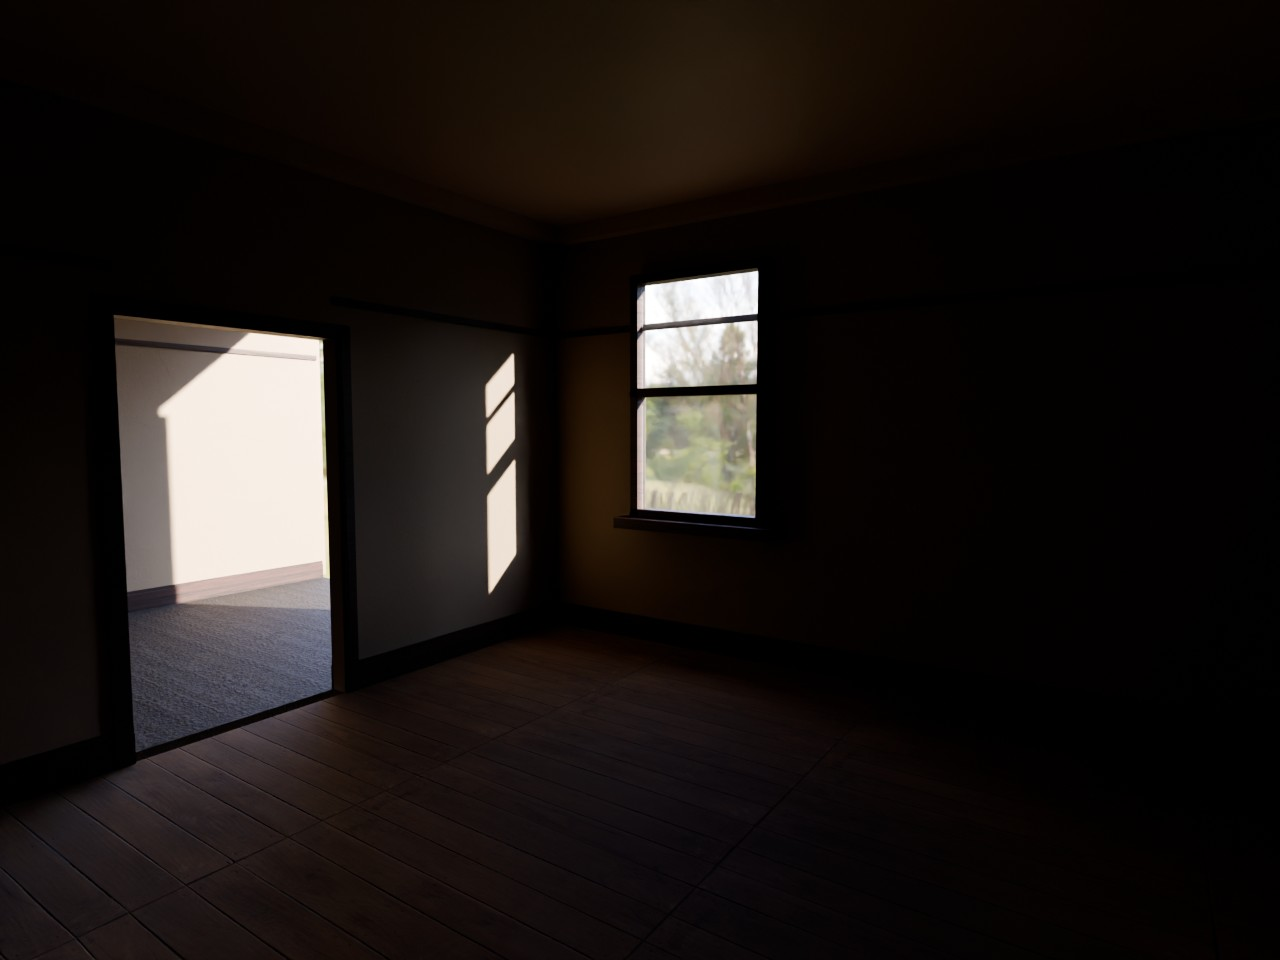
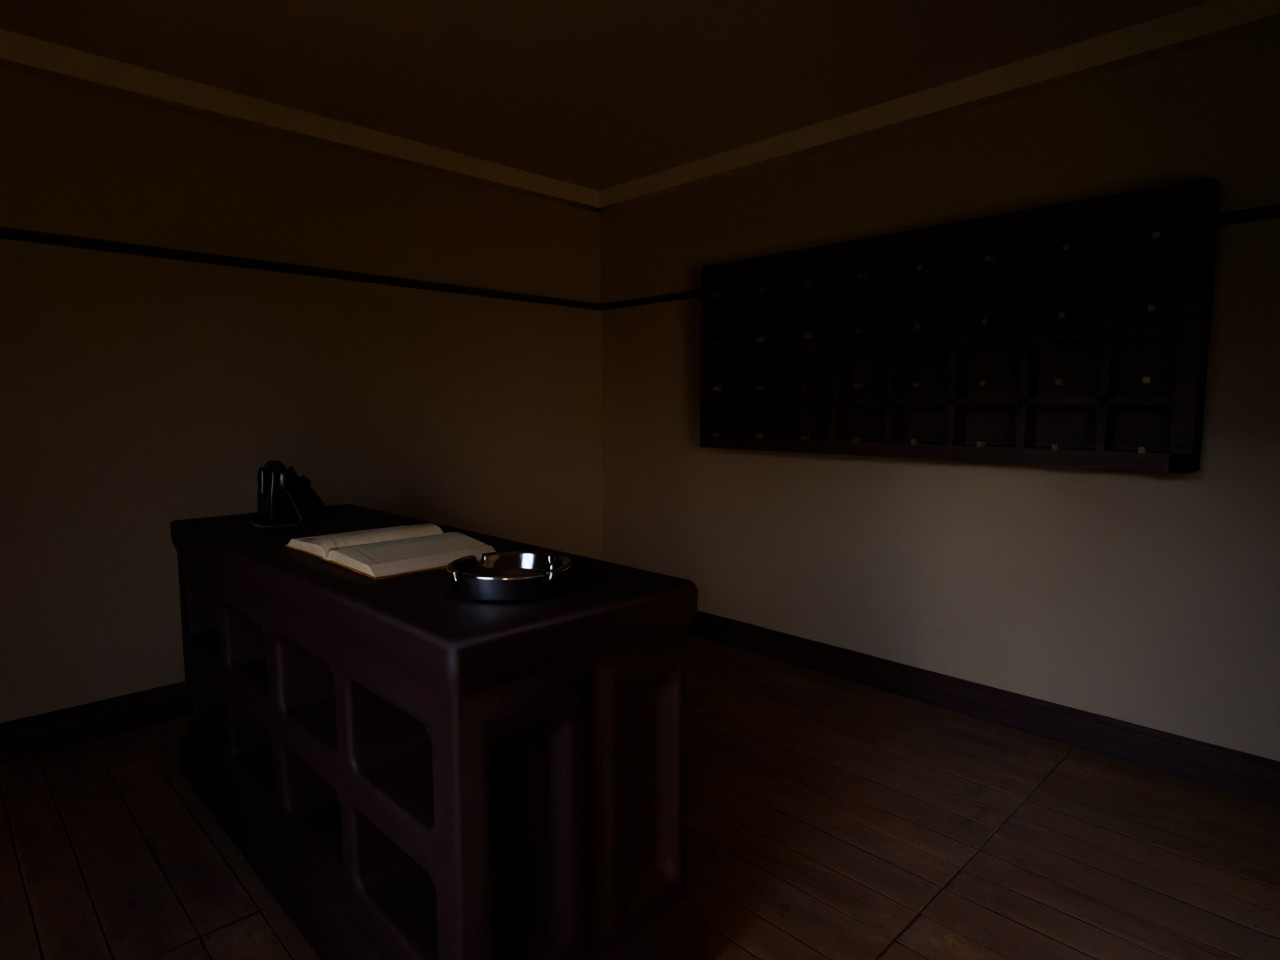
Unit A step 4: furnish reception

diff --git a/tools/blender/build_unit_a.py b/tools/blender/build_unit_a.py
@@ -5,17 +5,18 @@ Run inside Blender through BlenderMCP:
 
     exec(open('tools/blender/build_unit_a.py').read())
 
-This pass builds the reception, parlour, central staircase and first-floor hall
-shells. A later pass brings the existing room 1A into this same scene before
-one shared indirect-light bake. It writes `assets/blender/unit-a.blend` and one
-check render per assembled space under `shots/unit-a-*.jpg`.
+This pass builds all five contiguous spaces and furnishes the reception. Room
+1A is imported from its completed shipped glTF; the parlour remains ready for
+its own furniture pass before one shared indirect-light bake. It writes
+`assets/blender/unit-a.blend` and one check render per assembled space under
+`shots/unit-a-*.jpg`.
 
 Axes follow the room 1A pipeline:
 
     three (x, y, z) -> blender (x, -z, y)
 
-The numbers below are the reception extents from `src/world/lodge.ts`; this is
-not a fresh layout. Furniture is deliberately absent until Unit A step 4.
+The numbers below are the extents from `src/world/lodge.ts`; this is not a fresh
+layout. Gameplay-facing furniture holder names remain the runtime object IDs.
 """
 
 from __future__ import annotations
@@ -29,6 +30,12 @@ import mathutils
 ROOT = "/Users/habibi/Documents/CLAUDE/paradisegame"
 MATERIALS = f"{ROOT}/assets/blender/materials.blend"
 ROOM1A_GLB = f"{ROOT}/public/models/room1a.glb"
+RECEPTION_SOURCES = {
+    "desk": f"{ROOT}/assets/sourced/reception-desk.glb",
+    "phone": f"{ROOT}/assets/sourced/reception-phone.glb",
+    "ledger": f"{ROOT}/assets/sourced/reception-ledger.glb",
+    "ashtray": f"{ROOT}/assets/sourced/reception-ashtray.glb",
+}
 OUT_BLEND = f"{ROOT}/assets/blender/unit-a.blend"
 OUT_RECEPTION_SHOT = f"{ROOT}/shots/unit-a-reception.jpg"
 OUT_PARLOUR_SHOT = f"{ROOT}/shots/unit-a-parlour.jpg"
@@ -151,6 +158,15 @@ def brass_material():
     bsdf.inputs["Metallic"].default_value = 0.58
     bsdf.inputs["Roughness"].default_value = 0.50
     material["tile_metres"] = 1.0
+    return material
+
+
+def black_bakelite_material():
+    material = bpy.data.materials.new("unit_a_black_bakelite")
+    material.use_nodes = True
+    bsdf = next(node for node in material.node_tree.nodes if node.type == "BSDF_PRINCIPLED")
+    bsdf.inputs["Base Color"].default_value = (0.012, 0.010, 0.008, 1.0)
+    bsdf.inputs["Roughness"].default_value = 0.28
     return material
 
 
@@ -314,6 +330,168 @@ def build_reception(materials, glass) -> None:
     ):
         ob = cube(f"reception_cornice_{tag}", lo, hi)
         assign(ob, cornice)
+
+
+def _world_bounds(objects):
+    lo = mathutils.Vector((1e9, 1e9, 1e9))
+    hi = mathutils.Vector((-1e9, -1e9, -1e9))
+    for obj in objects:
+        if obj.type != "MESH":
+            continue
+        for corner in obj.bound_box:
+            point = obj.matrix_world @ mathutils.Vector(corner)
+            for axis in range(3):
+                lo[axis] = min(lo[axis], point[axis])
+                hi[axis] = max(hi[axis], point[axis])
+    return lo, hi
+
+
+def _import_reception_asset(
+    slot,
+    target_size,
+    centre,
+    base_z,
+    source_uid,
+    material_override=None,
+    keep_material_prefixes=None,
+):
+    """Import, measure and place one sourced prop without trusting source units."""
+    path = RECEPTION_SOURCES[slot]
+    if not os.path.exists(path):
+        raise FileNotFoundError(f"Reception source is missing: {path}")
+
+    before = set(bpy.data.objects)
+    bpy.ops.import_scene.gltf(filepath=path)
+    imported = [obj for obj in bpy.data.objects if obj not in before]
+
+    if keep_material_prefixes:
+        for obj in list(imported):
+            if obj.type != "MESH":
+                continue
+            names = [mat.name for mat in obj.data.materials if mat]
+            if not any(name.startswith(keep_material_prefixes) for name in names):
+                bpy.data.objects.remove(obj, do_unlink=True)
+        imported = [obj for obj in bpy.data.objects if obj not in before]
+
+    meshes = [obj for obj in imported if obj.type == "MESH"]
+    if not meshes:
+        raise RuntimeError(f"Reception source {slot} contains no retained meshes")
+
+    holder = bpy.data.objects.new(slot, None)
+    bpy.context.scene.collection.objects.link(holder)
+    holder["unit_a_space"] = "reception"
+    holder["source_uid"] = source_uid
+
+    imported_set = set(imported)
+    for obj in imported:
+        if obj.parent not in imported_set:
+            obj.parent = holder
+
+    bpy.context.view_layer.update()
+    lo, hi = _world_bounds(meshes)
+    size = hi - lo
+    holder.scale = tuple(
+        target_size[axis] / size[axis] if size[axis] > 1e-6 else 1.0
+        for axis in range(3)
+    )
+    bpy.context.view_layer.update()
+
+    lo, hi = _world_bounds(meshes)
+    mid = (lo + hi) / 2
+    holder.location = (
+        holder.location.x + centre[0] - mid.x,
+        holder.location.y + centre[1] - mid.y,
+        holder.location.z + base_z - lo.z,
+    )
+    bpy.context.view_layer.update()
+
+    for index, obj in enumerate(meshes):
+        obj.name = f"reception_{slot}_mesh_{index:02d}"
+        obj["unit_a_space"] = "reception"
+        if material_override is not None:
+            obj.data.materials.clear()
+            obj.data.materials.append(material_override)
+            # The panelled counter ships with vertex colour only. Its linked
+            # timber PBR needs a real albedo UV layer before the later bake.
+            _box_uv(obj, float(material_override.get("tile_metres", 1.0)))
+    return holder
+
+
+def build_reception_furniture(materials, bakelite, brass) -> None:
+    """Furnish reception while keeping the hall opening fully walkable."""
+    timber = materials["timber_dark"]
+
+    _import_reception_asset(
+        "desk", (2.36, 0.80, 1.14), (4.50, -2.32), 0.0,
+        "f37a60e917554d8c98931bf6b99cefaf", material_override=timber,
+    )
+    _import_reception_asset(
+        "ledger", (0.70, 0.42, 0.06), (4.34, -2.28), 1.14,
+        "fdeed37ffb9e4cdfa40e44a5f2ca5c53",
+    )
+    _import_reception_asset(
+        "phone", (0.46, 0.34, 0.25), (5.24, -2.28), 1.14,
+        "e5674d675edb42b6986d58fdda153c17",
+        material_override=bakelite,
+        keep_material_prefixes=("Phone", "Cord"),
+    )
+    _import_reception_asset(
+        "ashtray", (0.32, 0.32, 0.07), (3.65, -2.28), 1.14,
+        "8c9deaa3f4b84e01b186eec4c1269b60",
+    )
+
+    # A fitted rack has to meet this rear wall and preserve the runtime's 8x4
+    # pigeonhole layout. Sketchfab had no credible downloadable period match.
+    rack = bpy.data.objects.new("keyRack", None)
+    bpy.context.scene.collection.objects.link(rack)
+    rack["unit_a_space"] = "reception"
+    x0, x1 = 2.60, 5.20
+    y0, y1 = -5.02, -4.84
+    z0, z1 = 1.35, 2.50
+    frame = 0.075
+    pieces = []
+    for name, lo, hi in (
+        ("back", (x0, y0, z0), (x1, y0 + 0.035, z1)),
+        ("side_l", (x0, y0, z0), (x0 + frame, y1, z1)),
+        ("side_r", (x1 - frame, y0, z0), (x1, y1, z1)),
+        ("top", (x0, y0, z1 - frame), (x1, y1, z1)),
+        ("bottom", (x0, y0, z0), (x1, y1, z0 + frame)),
+    ):
+        piece = cube(f"reception_keyRack_{name}", lo, hi)
+        assign(piece, timber)
+        pieces.append(piece)
+    for col in range(1, 8):
+        x = x0 + (x1 - x0) * col / 8
+        piece = cube(
+            f"reception_keyRack_divider_v{col}",
+            (x - 0.018, y0 + 0.035, z0 + frame),
+            (x + 0.018, y1, z1 - frame),
+        )
+        assign(piece, timber)
+        pieces.append(piece)
+    for row in range(1, 4):
+        z = z0 + (z1 - z0) * row / 4
+        piece = cube(
+            f"reception_keyRack_divider_h{row}",
+            (x0 + frame, y0 + 0.035, z - 0.018),
+            (x1 - frame, y1, z + 0.018),
+        )
+        assign(piece, timber)
+        pieces.append(piece)
+    for row in range(4):
+        for col in range(8):
+            x = x0 + (x1 - x0) * (col + 0.5) / 8
+            z = z0 + (z1 - z0) * (row + 0.30) / 4
+            hook = cube(
+                f"reception_keyRack_hook_{row}_{col}",
+                (x - 0.012, y1, z - 0.012),
+                (x + 0.012, y1 + 0.055, z + 0.012),
+            )
+            assign(hook, brass)
+            pieces.append(hook)
+    for piece in pieces:
+        piece.parent = rack
+        piece["unit_a_space"] = "reception"
 
 
 def build_parlour(materials, glass) -> None:
@@ -881,6 +1059,11 @@ def validate() -> None:
         "reception_window_pane_upper",
         "reception_entry_room_jamb_l0",
         "reception_entry_room_jamb_r0",
+        "desk",
+        "keyRack",
+        "ledger",
+        "phone",
+        "ashtray",
         "parlour_floor",
         "parlour_ceiling",
         "parlour_wall_side",
@@ -939,6 +1122,16 @@ def validate() -> None:
     missing_uv = [obj.name for obj in meshes if len(obj.data.uv_layers) == 0]
     if missing_uv:
         raise RuntimeError(f"Unit A has meshes without albedo UVs: {missing_uv}")
+
+    desk_meshes = [obj for obj in meshes if obj.name.startswith("reception_desk_mesh_")]
+    desk_lo, desk_hi = _world_bounds(desk_meshes)
+    if desk_lo.x - HALL_FACE < 1.0:
+        raise RuntimeError(
+            f"Reception desk blocks circulation: {desk_lo.x - HALL_FACE:.3f}m hall gap"
+        )
+    if abs(desk_lo.z) > 0.002 or abs(desk_hi.z - 1.14) > 0.002:
+        raise RuntimeError(f"Reception desk height drifted: z {desk_lo.z:.3f}..{desk_hi.z:.3f}")
+
     reception_count = sum(obj.name.startswith("reception_") for obj in meshes)
     parlour_count = sum(obj.name.startswith("parlour_") for obj in meshes)
     staircase_count = sum(obj.name.startswith("staircase_") for obj in meshes)
@@ -949,6 +1142,7 @@ def validate() -> None:
         f"staircase {staircase_count} meshes, "
         f"first-floor hall {hall_count} meshes, "
         f"room 1A {room1a_count} meshes, "
+        f"desk hall gap {desk_lo.x - HALL_FACE:.2f}m, "
         "0 unmaterialled, 0 without UVs"
     )
 
@@ -959,14 +1153,16 @@ def build() -> None:
     exec(open(f"{ROOT}/tools/blender/kit_arch.py").read(), globals())
     glass = glass_material()
     brass = brass_material()
+    bakelite = black_bakelite_material()
     build_reception(materials, glass)
+    build_reception_furniture(materials, bakelite, brass)
     build_parlour(materials, glass)
     build_staircase(materials, brass)
     build_first_floor_hall(materials, brass)
     import_room1a()
     build_lighting()
     reception_camera = build_camera(
-        "unit_a_reception", (5.75, -4.55, 1.62), (2.75, -0.15, 1.25)
+        "unit_a_reception", (2.05, -1.18, 1.62), (4.45, -3.55, 1.28)
     )
     parlour_camera = build_camera(
         "unit_a_parlour", (-2.15, -4.55, 1.62), (-4.60, -0.10, 1.30)
@@ -988,7 +1184,7 @@ def build() -> None:
     bpy.context.scene.camera = reception_camera
     bpy.ops.wm.save_as_mainfile(filepath=OUT_BLEND, compress=True)
     for camera, path, preview_exposure in (
-        (reception_camera, OUT_RECEPTION_SHOT, 2.8),
+        (reception_camera, OUT_RECEPTION_SHOT, 3.8),
         (parlour_camera, OUT_PARLOUR_SHOT, 2.8),
         (staircase_camera, OUT_STAIRCASE_SHOT, 3.8),
         (first_floor_hall_camera, OUT_FIRST_FLOOR_HALL_SHOT, 4.2),

diff --git a/CLAUDE.md b/CLAUDE.md
@@ -76,13 +76,13 @@ The player is Detective Graham Miller. You never see him until the last shot of 
 
 ## Status
 
-Last updated 1 August 2026. **Scene 1's engine is finished, room 1A is through the render reset, and Unit A step 3 is done.** All five lodge-interior spaces are assembled contiguously in the shared Unit A scene. Update this whenever work resumes.
+Last updated 1 August 2026. **Scene 1's engine is finished and Unit A step 4 is under way.** All five lodge-interior spaces are contiguous; reception is furnished and the parlour is next. Update this whenever work resumes.
 
 Gameplay is correct and is not to be touched. `src/interact`, `src/case`, `src/dialogue`, `src/npc`, `src/core`, `src/player`, `src/ui`, `src/audio` are closed. Evidence copy, gate order and the event bus are closed. The live job is `src/materials`, `src/render`, and the geometry in `src/world`. See *The render reset* below before anything else.
 
 **The live job is Unit A: the lodge interior, one Blender scene, one bake.** Room 1A proved the pipeline and its process is not repeated per room. See *Extending the pipeline* at the bottom of this file.
 
-Steps 1 and 2 are done and neither produced anything walkable, which is the shape of this unit: the shared surfaces and the shared joinery are made once so four rooms can draw on them. **Step 3 is done: reception, parlour, central staircase, first-floor hallway and the complete existing room 1A are one contiguous scene. Next is step 4, sourcing reception furniture.**
+Steps 1 and 2 are done and neither produced anything walkable, which is the shape of this unit: the shared surfaces and the shared joinery are made once so four rooms can draw on them. **Step 3 is done. Step 4 is under way: reception has its complete furniture set and the parlour is next.**
 
 Repo is `github.com/cre8tivoz/paradiselodge`, branch `main`. Live at `https://paradiselodge-game.pages.dev` (Cloudflare Pages project `paradiselodge-game`). Custom domain `lodge.billyhaddad.au` not wired yet. Deploys are manual: `npm run build && wrangler pages deploy dist --project-name paradiselodge-game --branch main`.
 
@@ -943,10 +943,13 @@ Order of work:
    and fixed a silent
    shared-kit failure: generated architecture had no albedo UV layer, so linked
    PBR maps sampled one point. `kit_arch.assign` now creates metre-scaled box
-   UVs; the later bake adds a separate lightmap layer. **Next is step 4,
-   beginning with reception furniture.**
-4. **Source furniture per space**, same rules as before. Reception: desk,
-   pigeonhole key rack, bakelite phone, ledger, ashtray. Parlour: two armchairs,
+   UVs; the later bake adds a separate lightmap layer.
+4. **Source furniture per space. Under way**, same rules as before. Reception
+   is done: sourced panelled desk, bakelite phone, hotel ledger and glass
+   ashtray, plus a measured fitted 8x4 pigeonhole key rack where no credible
+   downloadable period match existed. All retain the runtime holder IDs and
+   the desk leaves a measured 1.57m clear from the hall wall. **Next is the
+   parlour:** two armchairs,
    sofa, low table, standard lamp, TV in a timber cabinet. **Stairs and hallway
    get nothing. They are transit**
 5. **Lightmap density by dwell time, not floor area.** 1A 2048, parlour 2048,

diff --git a/docs/CREDITS.md b/docs/CREDITS.md
@@ -85,6 +85,10 @@ the shipping decision.
 | `bedspread` | [Single Bed Blanket](https://sketchfab.com/models/14084f216e834241a7f152cdfa4e5d59) | whewnewacc | CC-BY 4.0 | `14084f216e834241a7f152cdfa4e5d59` |
 | `mattress` | [Mattress](https://sketchfab.com/models/6a526b42e6a34a4ba12136a40d9a686b) | Miguel Ángel | CC-BY 4.0 | `6a526b42e6a34a4ba12136a40d9a686b` |
 | `paper` | [Low-poly Papers Set](https://sketchfab.com/models/2edf57ce2e6c4475bd4897b9c91b0a77) | Hox_Lira | CC-BY 4.0 | `2edf57ce2e6c4475bd4897b9c91b0a77` |
+| `reception-desk` | [Counter Desk](https://sketchfab.com/models/f37a60e917554d8c98931bf6b99cefaf) | Skowster | CC-BY 4.0 | `f37a60e917554d8c98931bf6b99cefaf` |
+| `reception-phone` | [Old bakelite style phone](https://sketchfab.com/models/e5674d675edb42b6986d58fdda153c17) | Keeya | CC-BY 4.0 | `e5674d675edb42b6986d58fdda153c17` |
+| `reception-ledger` | [1920's Hotel Leather Ledger](https://sketchfab.com/models/fdeed37ffb9e4cdfa40e44a5f2ca5c53) | Nicholas Record | CC-BY 4.0 | `fdeed37ffb9e4cdfa40e44a5f2ca5c53` |
+| `reception-ashtray` | [Glass Ashtray](https://sketchfab.com/models/8c9deaa3f4b84e01b186eec4c1269b60) | RED2000 | CC-BY 4.0 | `8c9deaa3f4b84e01b186eec4c1269b60` |
 
 ### What each one is, and what it is for
 
@@ -105,6 +109,10 @@ the shipping decision.
 | `bedspread` | 785 | source units | A plain single bedspread with a flat that covers a mattress, which is the one thing `bedding` could not do. Retextured to dusty rose. 0.95 across against a mattress of 0.75, because wider than that and the fall hangs through the iron side rails |
 | `mattress` | 34k | centimetres | Quilted, rounded edges. Scaled to the frame's interior on both axes and retextured to ticking. It replaced a grey box |
 | `paper` | 2 | source units | One sheet, separated out of a set of loose papers. Used twice, for the `map` and the `note`, each carrying its own authored image through the sheet's own UVs |
+| `reception-desk` | 4.0k | source units | Panelled counter scaled to the locked runtime footprint. Its white vertex-colour finish is replaced by the shared dark-timber PBR and a generated metre-scale albedo UV |
+| `reception-phone` | 70.6k | source units | The phone and cord only. The source's presentation table and backdrop are discarded; the red plastic is retinted black bakelite |
+| `reception-ledger` | 86 | source units | Open hotel ledger with ruled guest pages, scaled to the runtime look target on the counter |
+| `reception-ashtray` | 1.1k | source units | Low-poly clear glass ashtray on the reception counter |
 
 **Nothing is at a consistent scale and that is normal for Sketchfab.** Three of
 them are in metres, the rest are in inches, centimetres or millimetres. Every

diff --git a/progress.md b/progress.md
@@ -83,3 +83,19 @@ Original prompt: Lets get started with the next phases.
   and 0 meshes without UVs. All five check renders are visually accepted.
 - Next scoped task: Unit A step 4, source and place reception furniture. Room
   1A is already complete and must not be sourced again.
+- Reception furniture is complete. Sketchfab/BlenderMCP supplied the panelled
+  counter, bakelite phone, open hotel ledger and glass ashtray; source IDs and
+  CC-BY attribution are recorded in `docs/CREDITS.md`.
+- No credible downloadable period pigeonhole rack survived the search, so its
+  fitted 8x4 timber joinery was built to the locked rear-wall dimensions. The
+  phone source's presentation table/backdrop were discarded and its retained
+  phone/cord were retinted black bakelite.
+- Reception validation now proves the desk leaves a 1.57m hall-side circulation
+  gap. Combined validation passed: reception 109 meshes, parlour 65,
+  staircase 143, first-floor hall 143 and room 1A 133; 0 unmaterialled meshes
+  and 0 meshes without UVs.
+- All five regression renders were visually inspected. The reception check
+  clearly shows the desk, ledger, phone, ashtray, fitted key rack and open
+  circulation side; its exposure lift is preview-only and the saved scene
+  remains at 2.8.
+- Next scoped task: continue Unit A step 4 with parlour furniture only.
